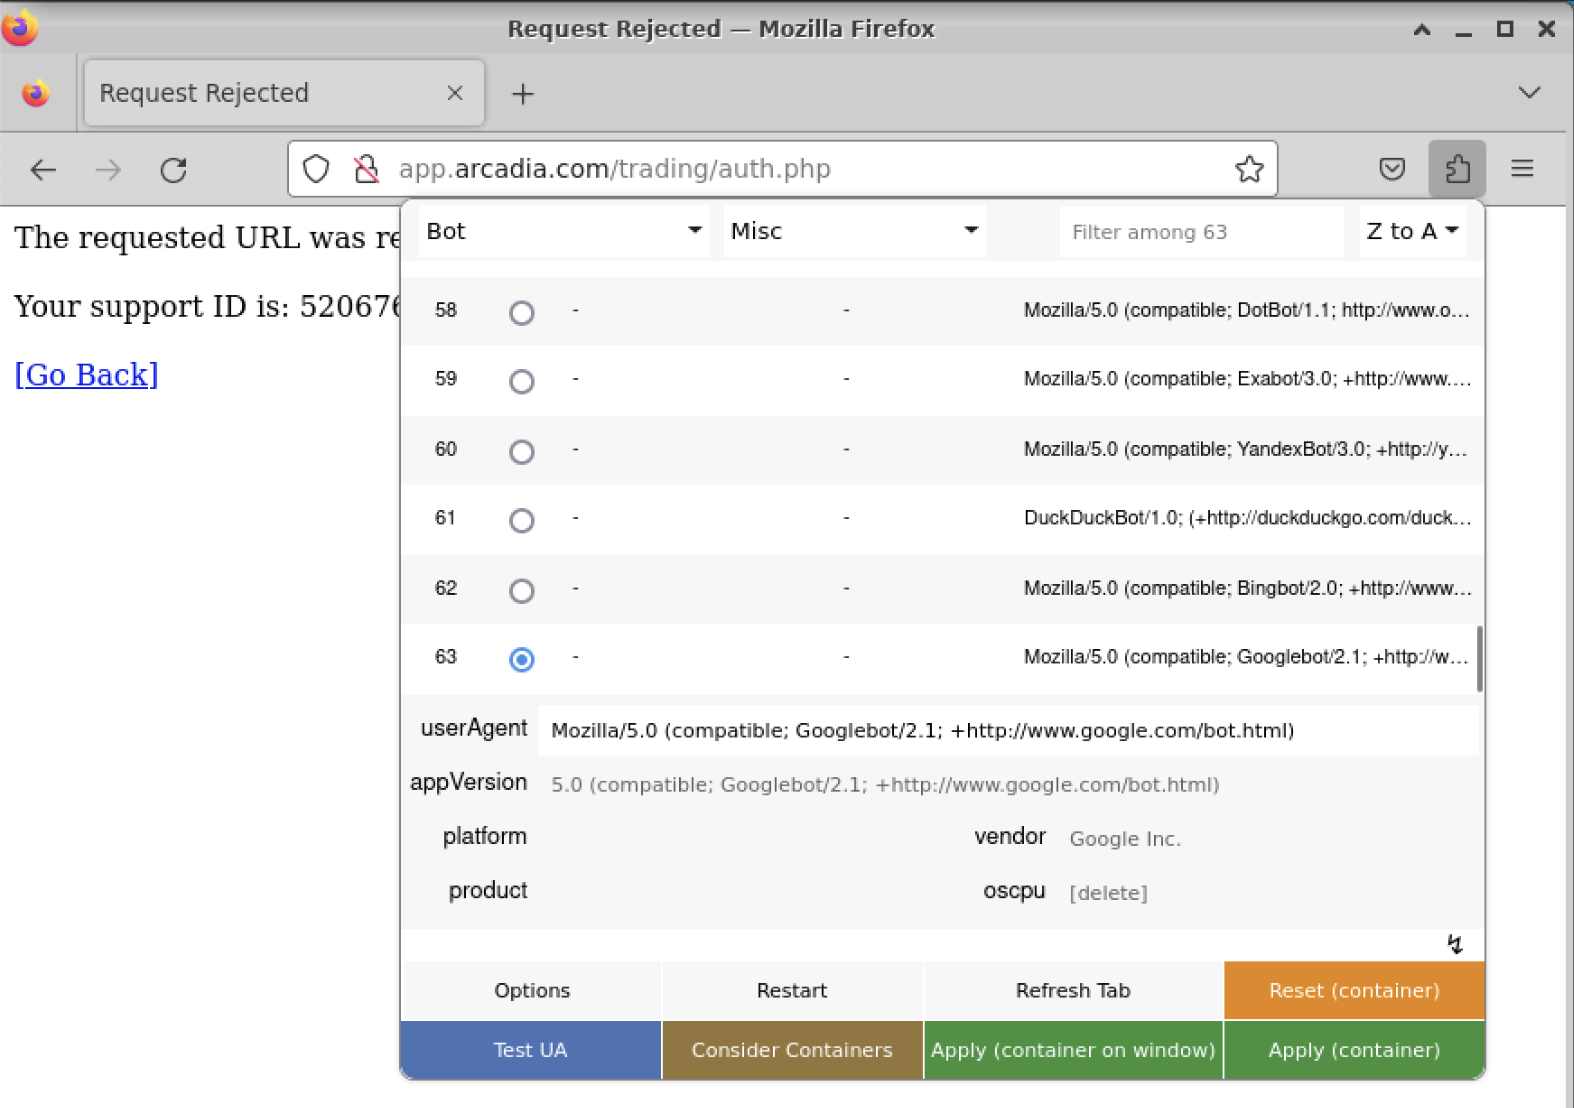
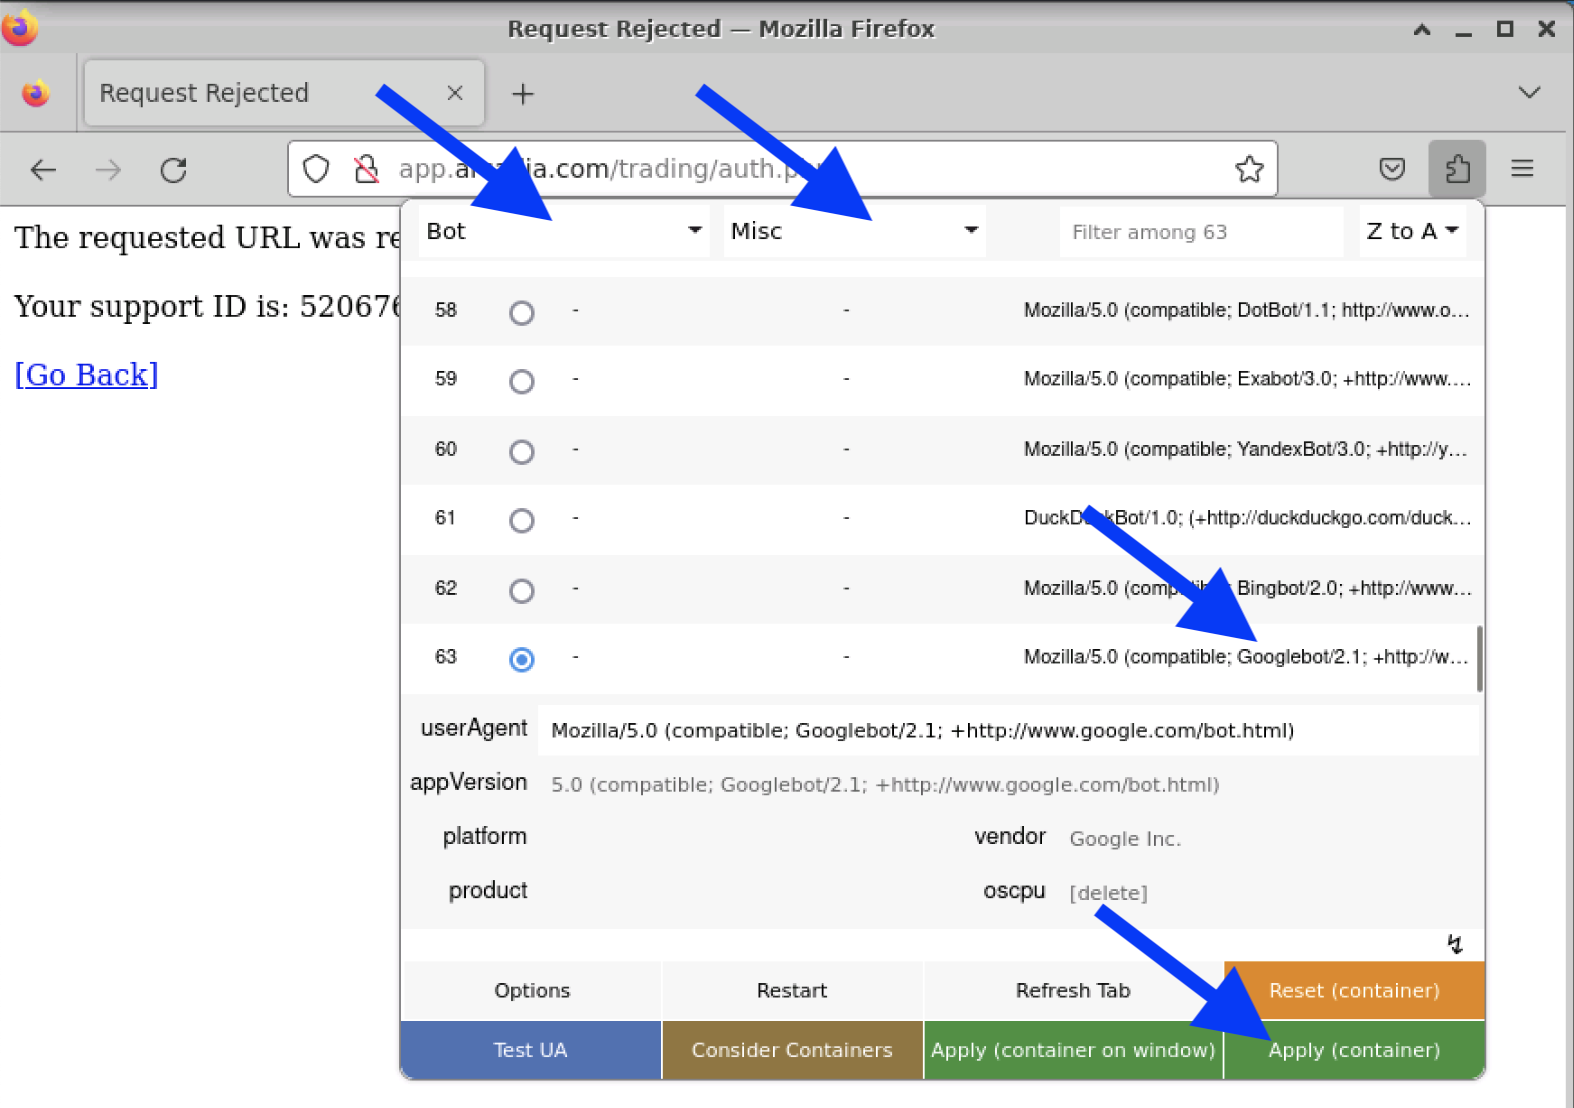
a

diff --git a/docs/source/bot-defense.rst b/docs/source/bot-defense.rst
@@ -4,26 +4,26 @@ Bot Defense Testing
 cURL as Itself
 ----
 
-#. Create request
+#. You're now in *Client* node, then create HTTP request
 
     .. code-block::
 
         $ curl -I http://app.arcadia.com
 
-#. Request allowed with alert
+#. Request was allowed but with an alert
 
     .. image:: img/bot-a2.png
 
 cURL as ApacheBench
 ----
 
-#. Create request
+#. Create request and set the User-Agent to "ApacheBench/2"
 
     .. code-block::
 
         $ curl -A "ApacheBench/2" http://app.arcadia.com
 
-#. Request blocked and categorized as *Malicious Bot*
+#. Request is blocked and categorized as *Malicious Bot*
 
     .. image:: img/bot-b2.png
 
@@ -33,6 +33,8 @@ Firefox as GoogleBot
 #. Set Firefox to pretend to be GoogleBot using *User-Agent Switcher* add-on
 
     .. image:: img/bot-c2.png
+
+    Then *Apply (container)*
     
 #. Create request to the Arcadia Apps
 
